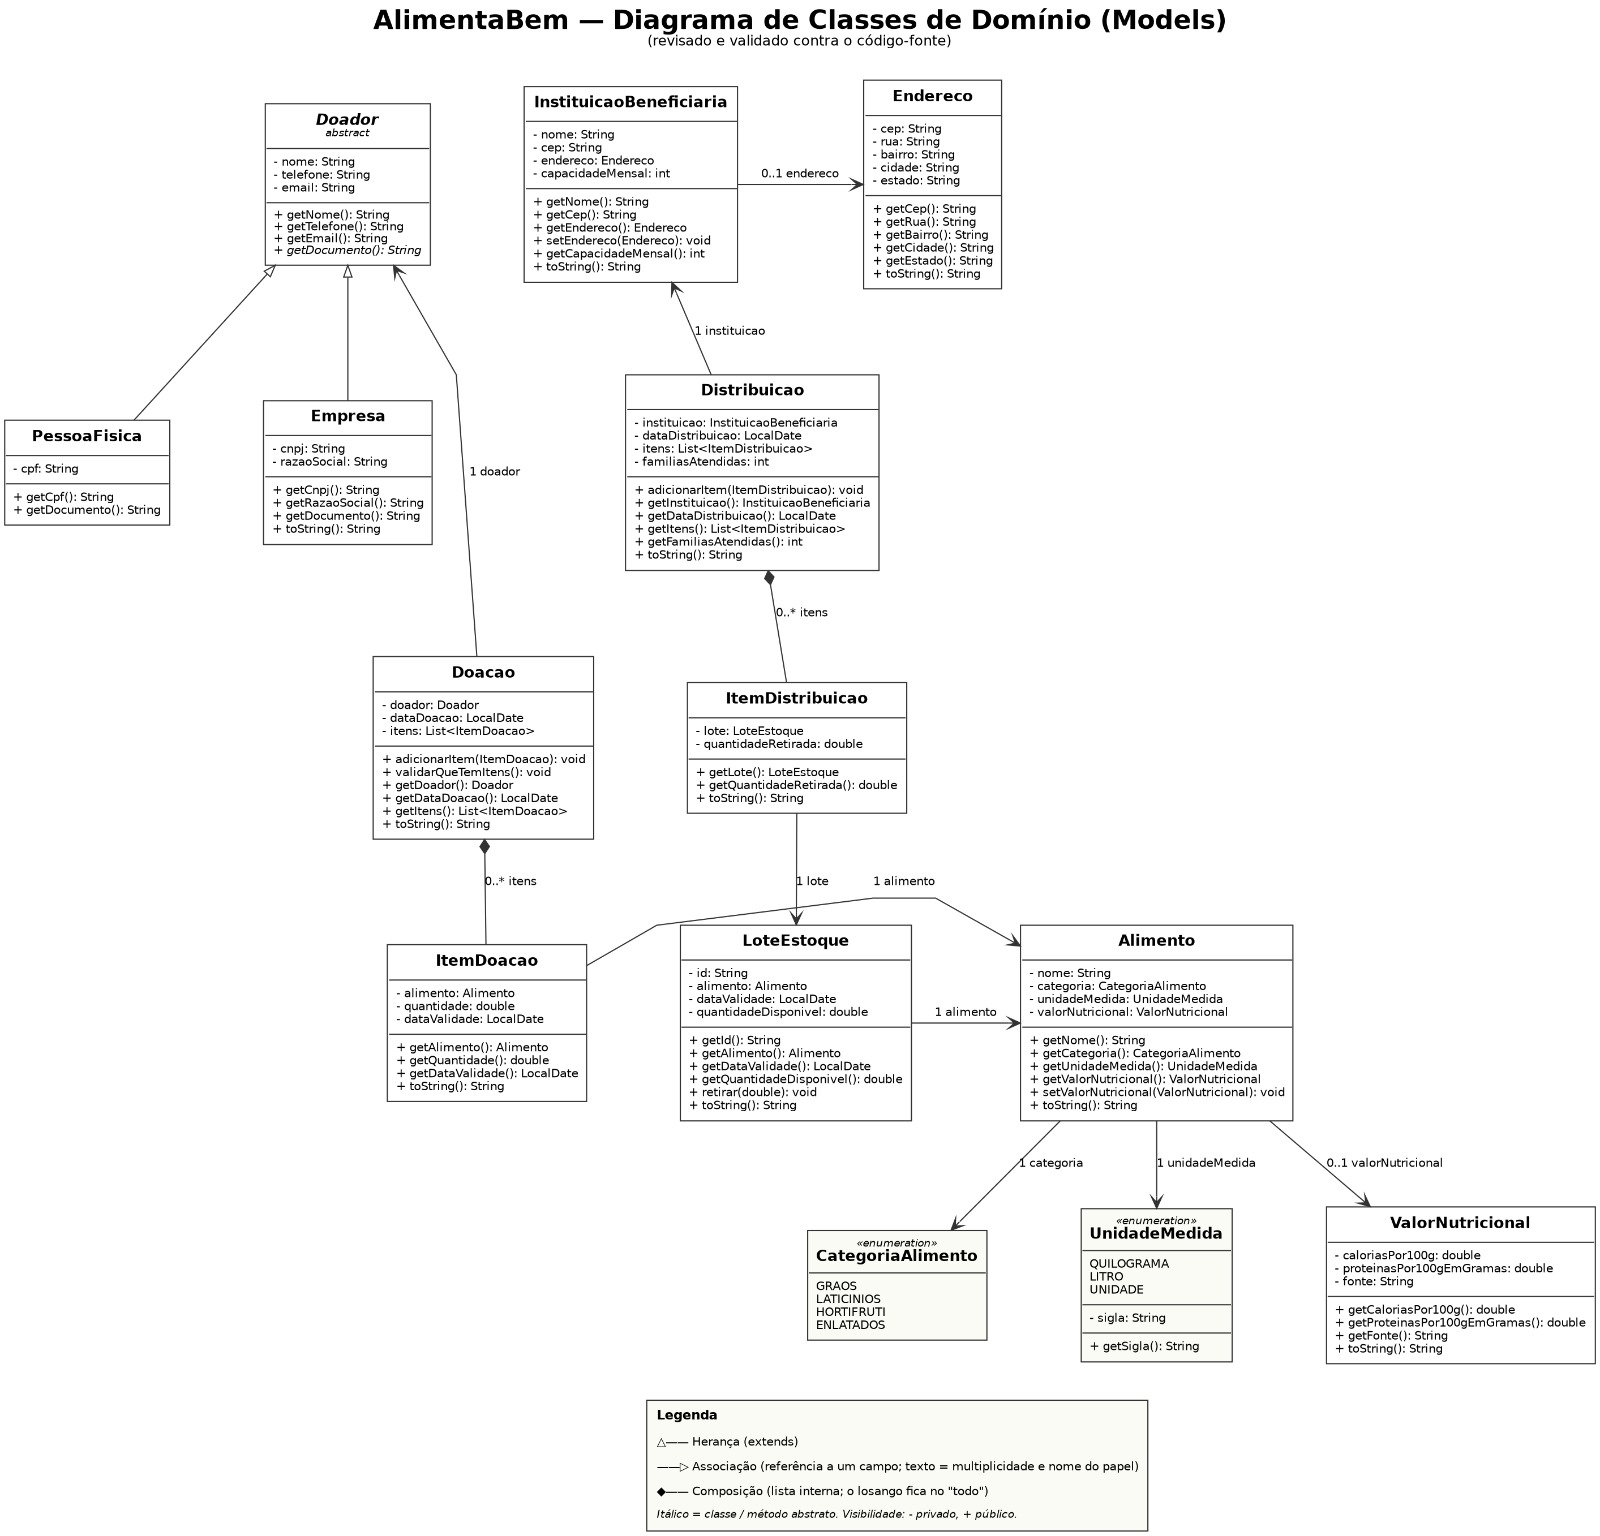
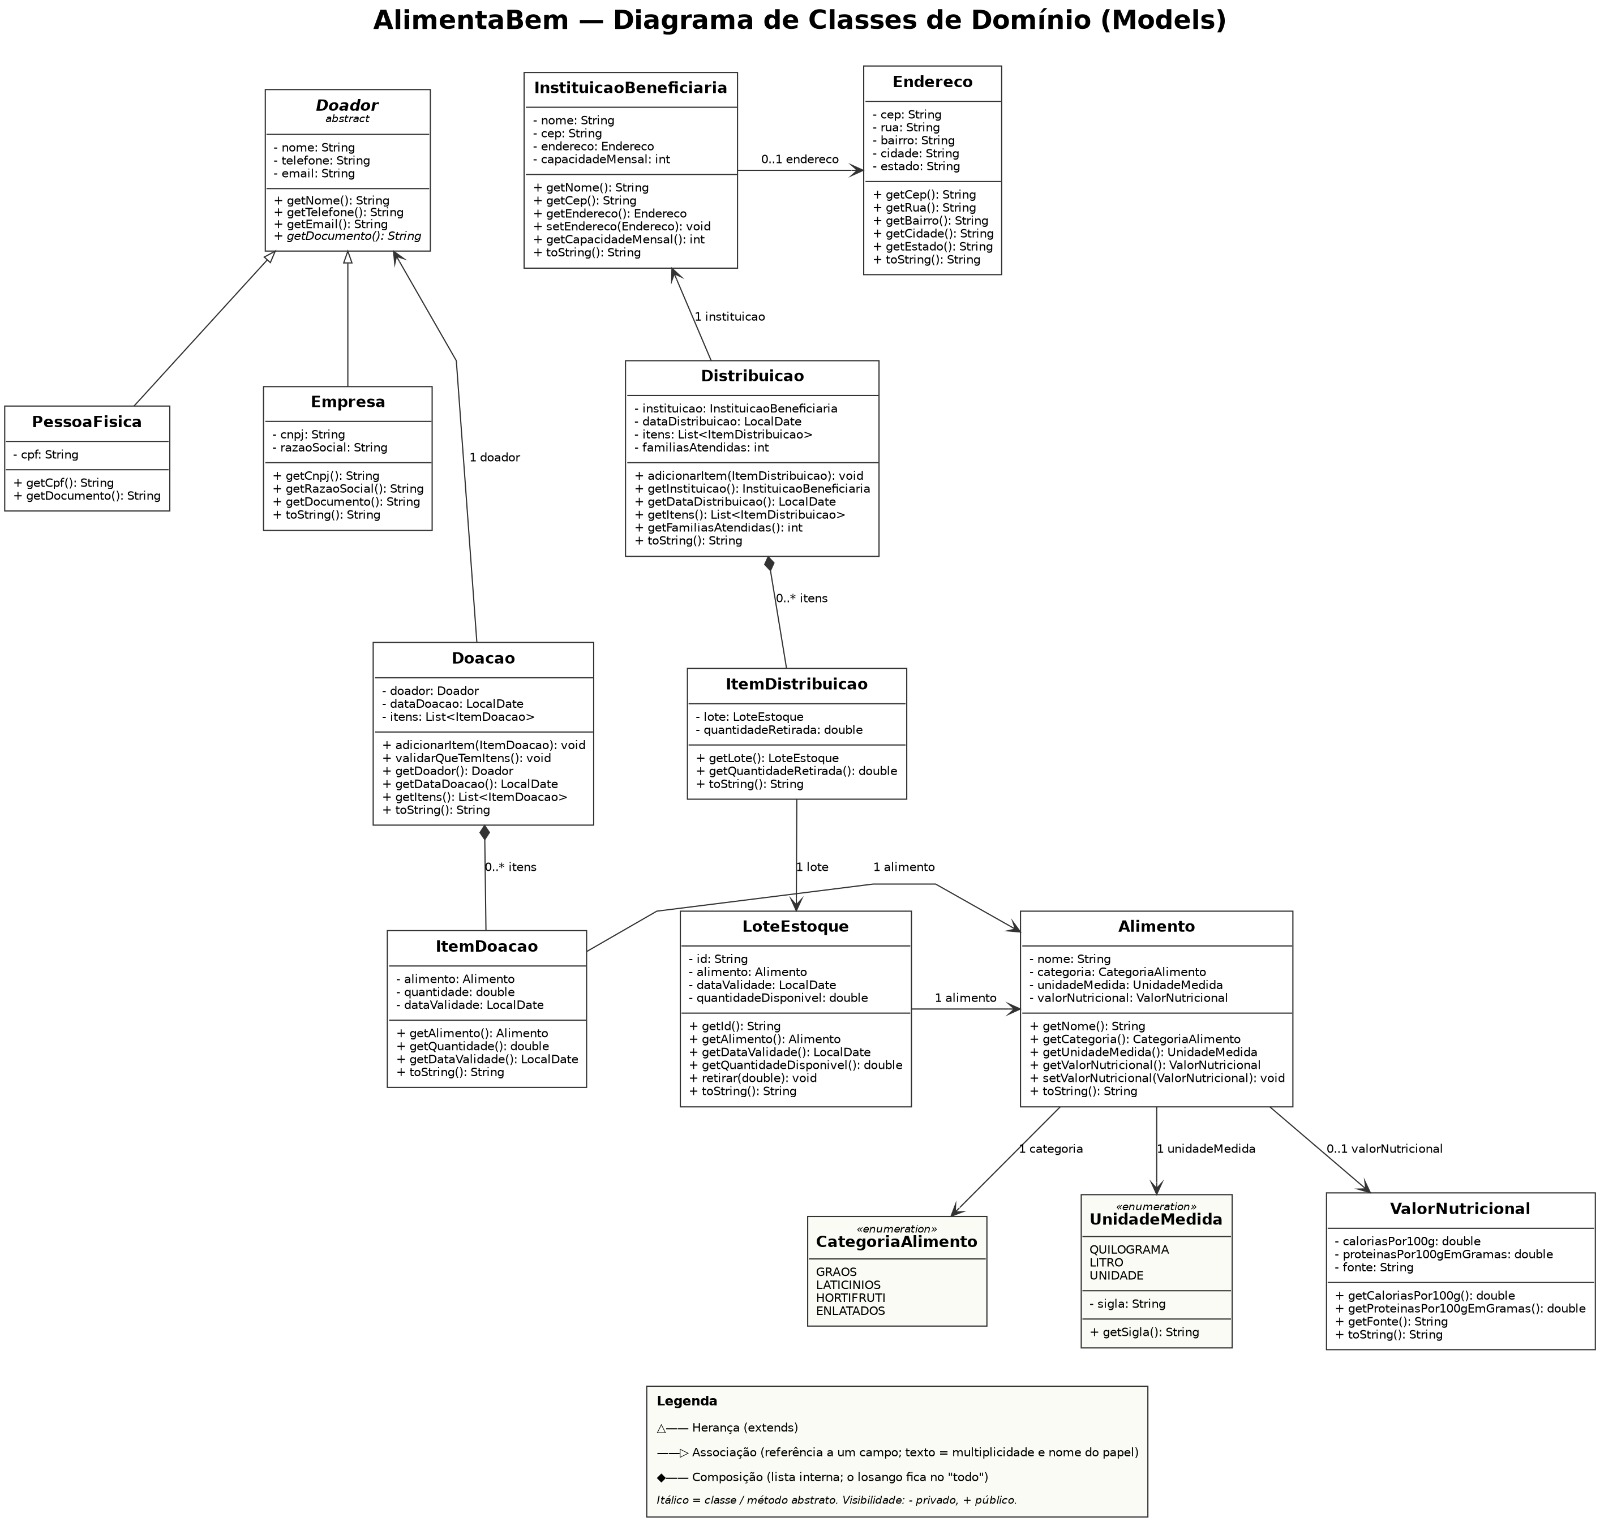
docs: atualiza imagem do diagrama de classes

diff --git a/README.md b/README.md
@@ -1,6 +1,8 @@
 ## Diagrama de Classes
 
-![alt text](diagramaip2.jpg.jpeg)
+![git add .
+git commit -m "docs: atualiza imagem do diagrama de classes"
+git push](diagrama.jpg.jpeg)
 
 
 # Sistema AlimentaBem
